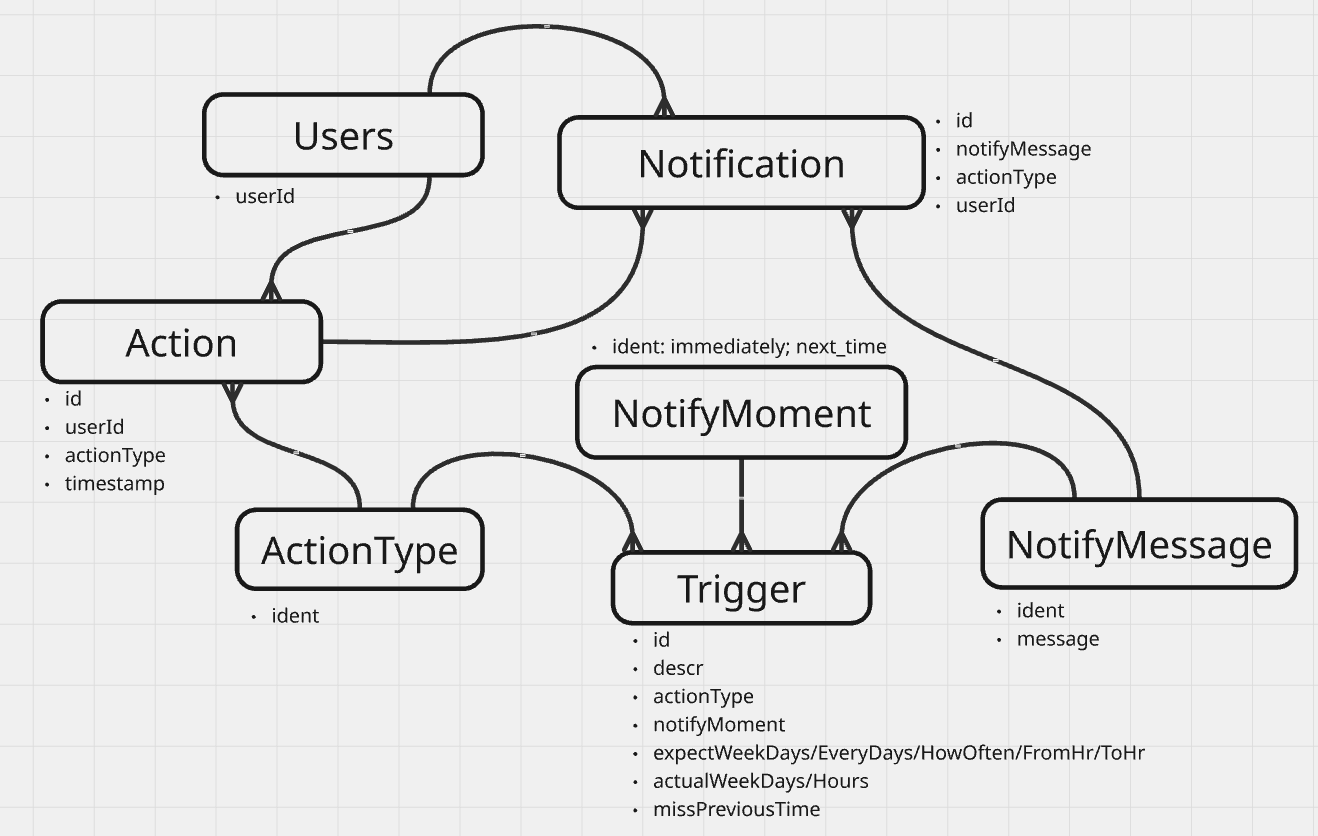
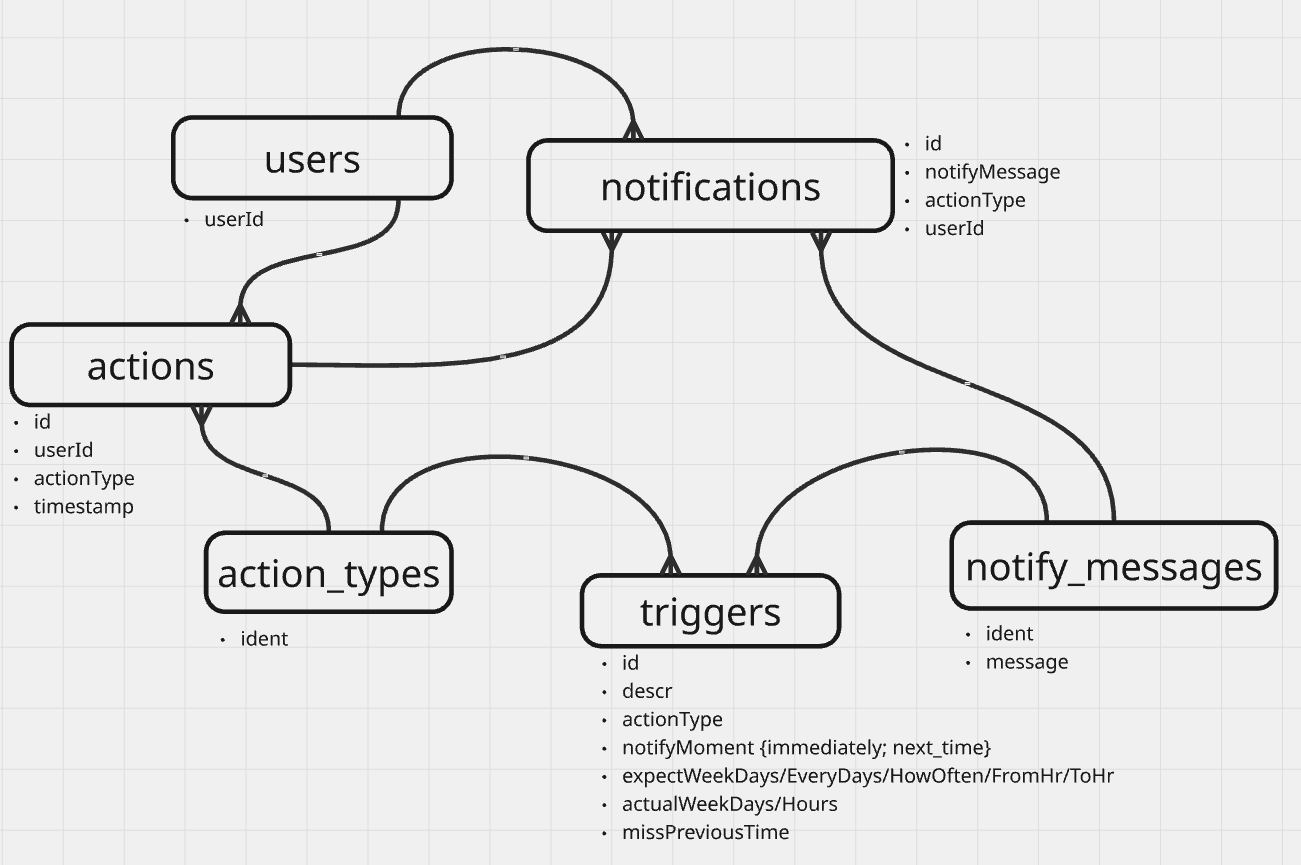
Correct DB schema

Changed region(s): [[0.0, 0.0311, 0.9839, 0.9952]]

diff --git a/src/main/java/ru/alumni/hub/subtlenotify/model/Action.java b/src/main/java/ru/alumni/hub/subtlenotify/model/Action.java
@@ -12,7 +12,7 @@ import java.util.UUID;
 
 
 @Entity
-@Table(name = "action")
+@Table(name = "actions")
 @Data
 @NoArgsConstructor
 @AllArgsConstructor
